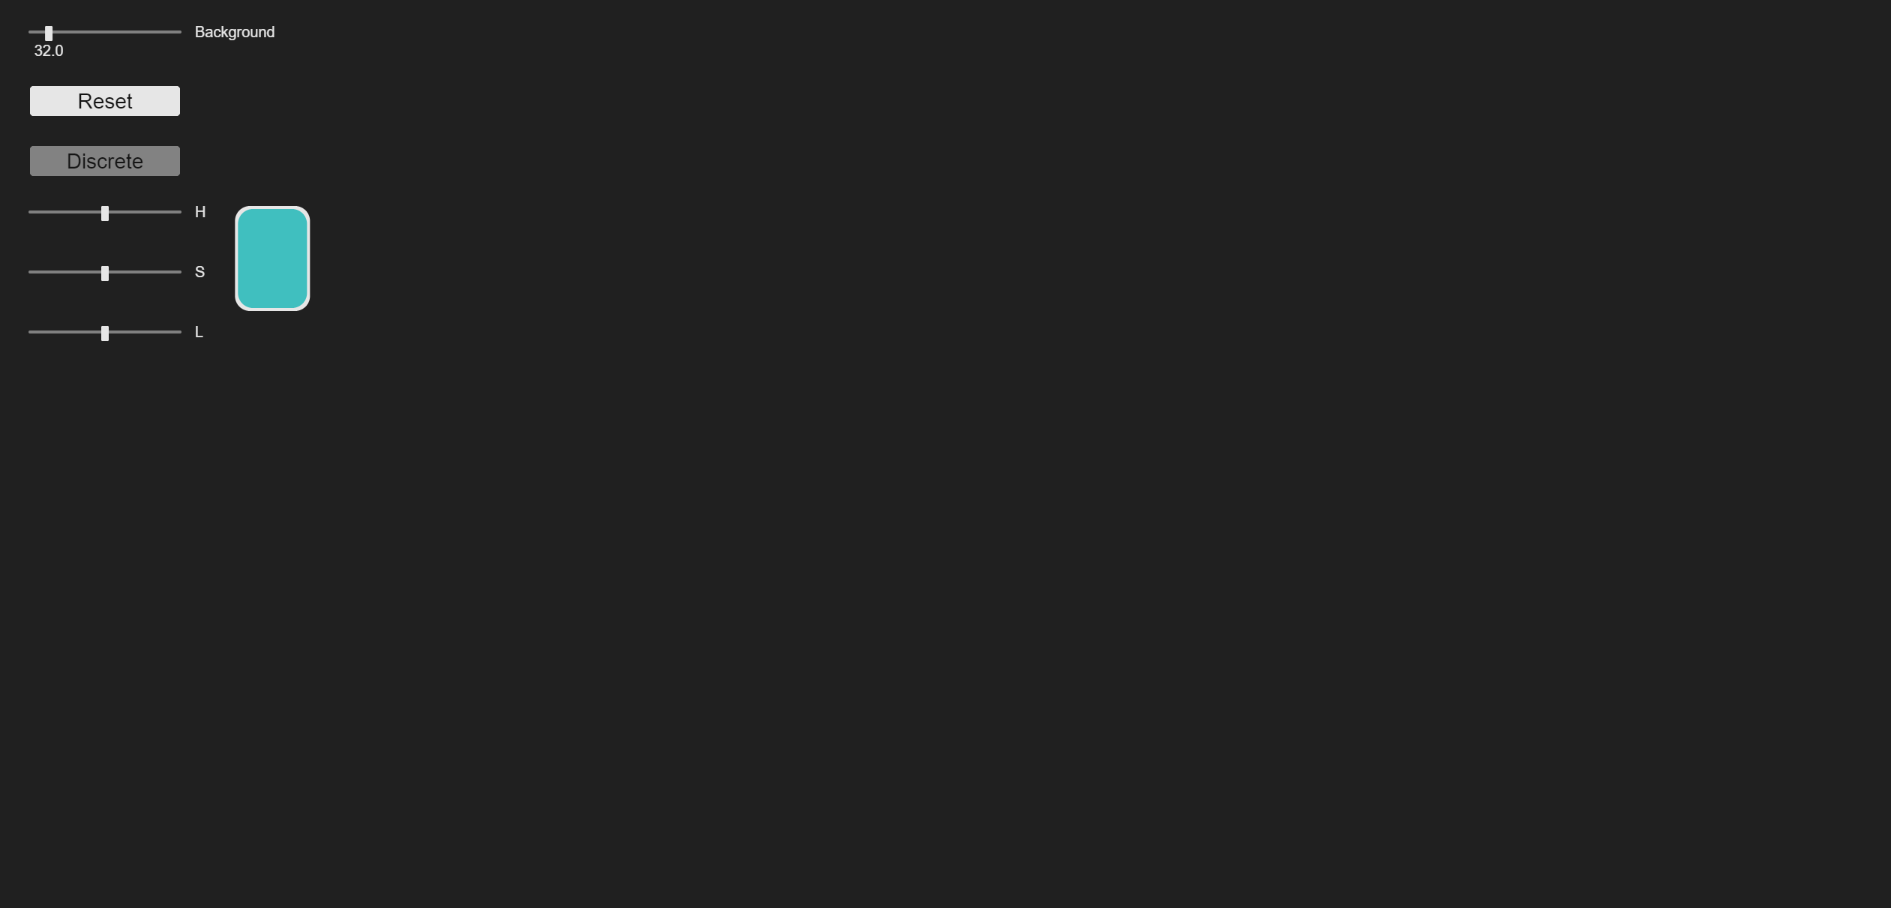
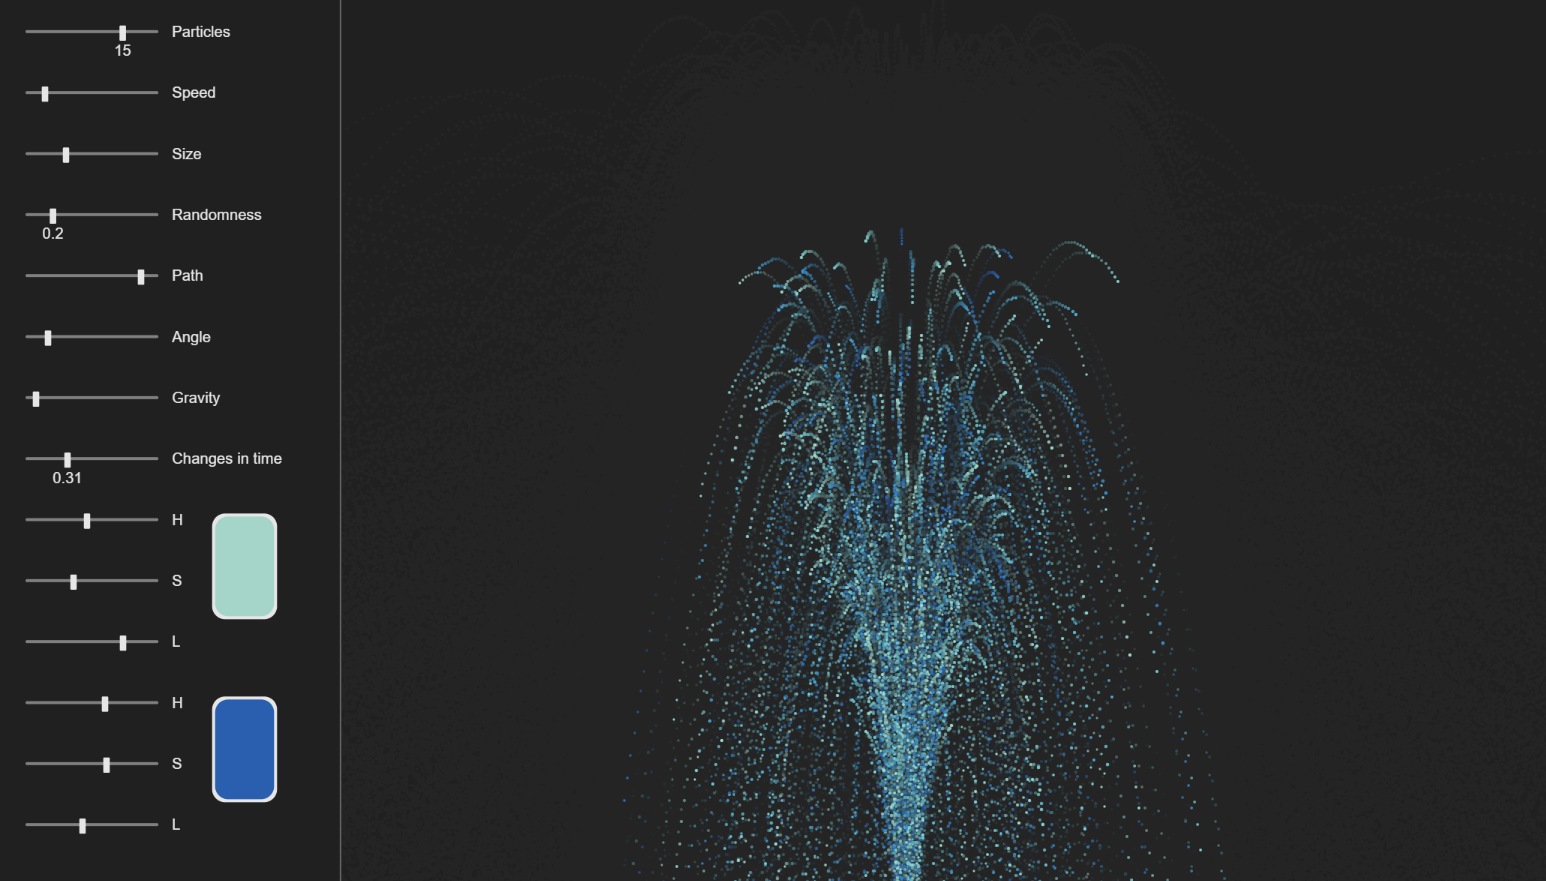
Now working

diff --git a/sketch.js b/sketch.js
@@ -1,42 +1,77 @@
-let sld;
-let btn;
-let tggl;
-let cPicker;
+let nParticlesSld;
+let velocitySld;
+let sizeSld;
+let pathSld;
+let angleSld;
+let gravitySld;
+let timeChangesSld;
+let color1;
+let color2;
+
+let frame = 0;
 
 function setup() {
 	createCanvas(windowWidth, windowHeight);
 	background(32);
 
 	// Create UI elements
-	sld = new Slider(start=0, end=255, value=32, 0, 0, width/12, height/60, null, "Background");
-	btn = new Button(x=0, y=0, width/12, height/30, "Reset", resetValue);
-	
-	tggl = new ToggleButton(0,0,width/12,height/30,"Discrete", discretice);
-	cPicker = new ColorPicker(0,0, width/12, height/60);
+	nParticlesSld = new Slider(start=1, end=20, value=10, 0, 0, width/12, height/60, 1, "Particles", true, 0);
+	velocitySld = new Slider(start=1, end=100, value= 20, 0,0, width/12, height/60, null, "Speed", false);
+	sizeSld = new Slider(start=0.5, end=5, value= 3, 0,0, width/12, height/60, null, "Size", false);
+	randomnessSld = new Slider(start=0, end=1, value=0.2, 0,0, width/12, height/60, null, "Randomness");
+	pathSld = new Slider(start=0, end=255, value= 200, 0,0, width/12, height/60, null, "Path", false);
+	angleSld = new Slider(start=0, end=PI/4, value= PI/24, 0,0, width/12, height/60, null, "Angle", false);
+	gravitySld = new Slider(start=0, end=5, value= 0.6, 0,0, width/12, height/60, null, "Gravity", false);
+	timeChangesSld = new Slider(start=0, end=1, value = 0.5, 0,0, width/12, height/60, null, "Changes in time", true, 2);
+	color1 = new ColorPicker(0,0, width/12, height/60);
+	color2 = new ColorPicker(0,0, width/12, height/60);
 
 	// Start UI
+	UI.heightMargin = height/30;
 	UI.tableWidth = 1;
 	UI.tableHeight = 100;
 	UI.distrubute();
 }
 
 function draw() {
+	background(32, 32, 32, 255 - pathSld.value);		
+	translate(width/2 + width/12, height);
+	scale(1,-1);
+	// Add new particles
+	colorMode(HSL, 1);
+	for(let i = 0; i < nParticlesSld.value; i++) {
+		Particle.add(new Particle(createVector(random(-1,1)*width/120, 0),
+						velocitySld.value + velocitySld.value*random(-1,1)*randomnessSld.value +
+						velocitySld.value*(noise(frame/50)*2-1)*timeChangesSld.value,
+						random(-1,1)*angleSld.value,
+						lerpColor(color1.getColor(), color2.getColor(), random()),
+						sizeSld.value + sizeSld.value*random(-1,1)*randomnessSld.value));
+	}
+
+	//Update particles
+	Particle.update(createVector(0, -gravitySld.value));
+	
+	// Draw particles
+	Particle.draw();
+	
+	colorMode(RGB, 255);
+
 	// Draw UI
-	background(sld.value);
+	scale(1,-1);
+	translate(-width/2 - width/12, -height);
+	// Redraw the frame only in the UI part
+	let uiWidth = randomnessSld.getWidth() + UI.widthMargin*2 + width/32;
+	fill(32);
+	noStroke();
+	rect(0,0, uiWidth, height);
+	// Sparator from UI
+	stroke(100);
+	strokeWeight(1);
+	line(uiWidth, 0, uiWidth, height);
 	UI.update();
 	UI.draw();
 
-	
-	translate(width/2 + width/12, height/2);
-	scale(1,-1);
-}
-
-function resetValue() {
-	sld.value = 32;
-}
-
-function discretice() {
-	sld.step = (sld.step == null ? 20 : null);
+	frame++;
 }
 
 function mouseDragged() {

diff --git a/particles.js b/particles.js
@@ -1,0 +1,73 @@
+/**
+ * Class representing one single water particle
+ */
+class Particle {
+    static particles = [];
+
+    /**
+     * 
+     * @param position Initial position of the particle
+     * @param velocity Initial magnitude of the velocity of the particle
+     * @param angle Angle from the vertical axis
+     * @param color Color of the particle
+     */
+    constructor(position, velocity, angle, color, thickness) {
+        this.position = position;
+        this.velocity = p5.Vector.fromAngle(angle + PI/2, velocity);
+        this.color = color;
+        this.thickness = thickness;
+    }
+
+    /**
+     * Add the given particle to the sistem
+     * 
+     * @param p 
+     */
+    static add(p) {
+        this.particles.push(p);
+    }
+
+    /**
+     * Update the system
+     * 
+     * @param gravity Gravity to be applied
+     */
+    static update(gravity) {
+        for(let i = this.particles.length - 1; i >= 0; i--) {
+            // Update particle position and velocity
+            this.particles[i].updateParticle(gravity);
+            // If particle is out of bounds delete it
+            if(this.particles[i].position.y < -10) {
+                this.particles.splice(i,1);
+            }
+        }
+    }
+    
+    /**
+     * Draw all particles
+     */
+    static draw() {
+        for(let p of this.particles) {
+            p.drawParicle();
+        }
+    }
+
+    /**
+     * Update single particle
+     * 
+     * @param gravity Gravity to be applied
+     */
+    updateParticle(gravity) {
+        this.position.add(this.velocity);
+        this.velocity.add(gravity);
+    }
+
+    /**
+     * Draw single particle
+     */
+    drawParicle() {
+        strokeWeight(this.thickness);
+        stroke(this.color);
+        point(this.position.x, this.position.y);
+    }
+}

diff --git a/index.html b/index.html
@@ -11,6 +11,7 @@
     <script src="./UI/toggle_button.js"></script>
     <script src="./UI/color_picker.js"></script>
     <script src="sketch.js"></script>
+    <script src="particles.js"></script>
   </head>
   <body>
   </body>
